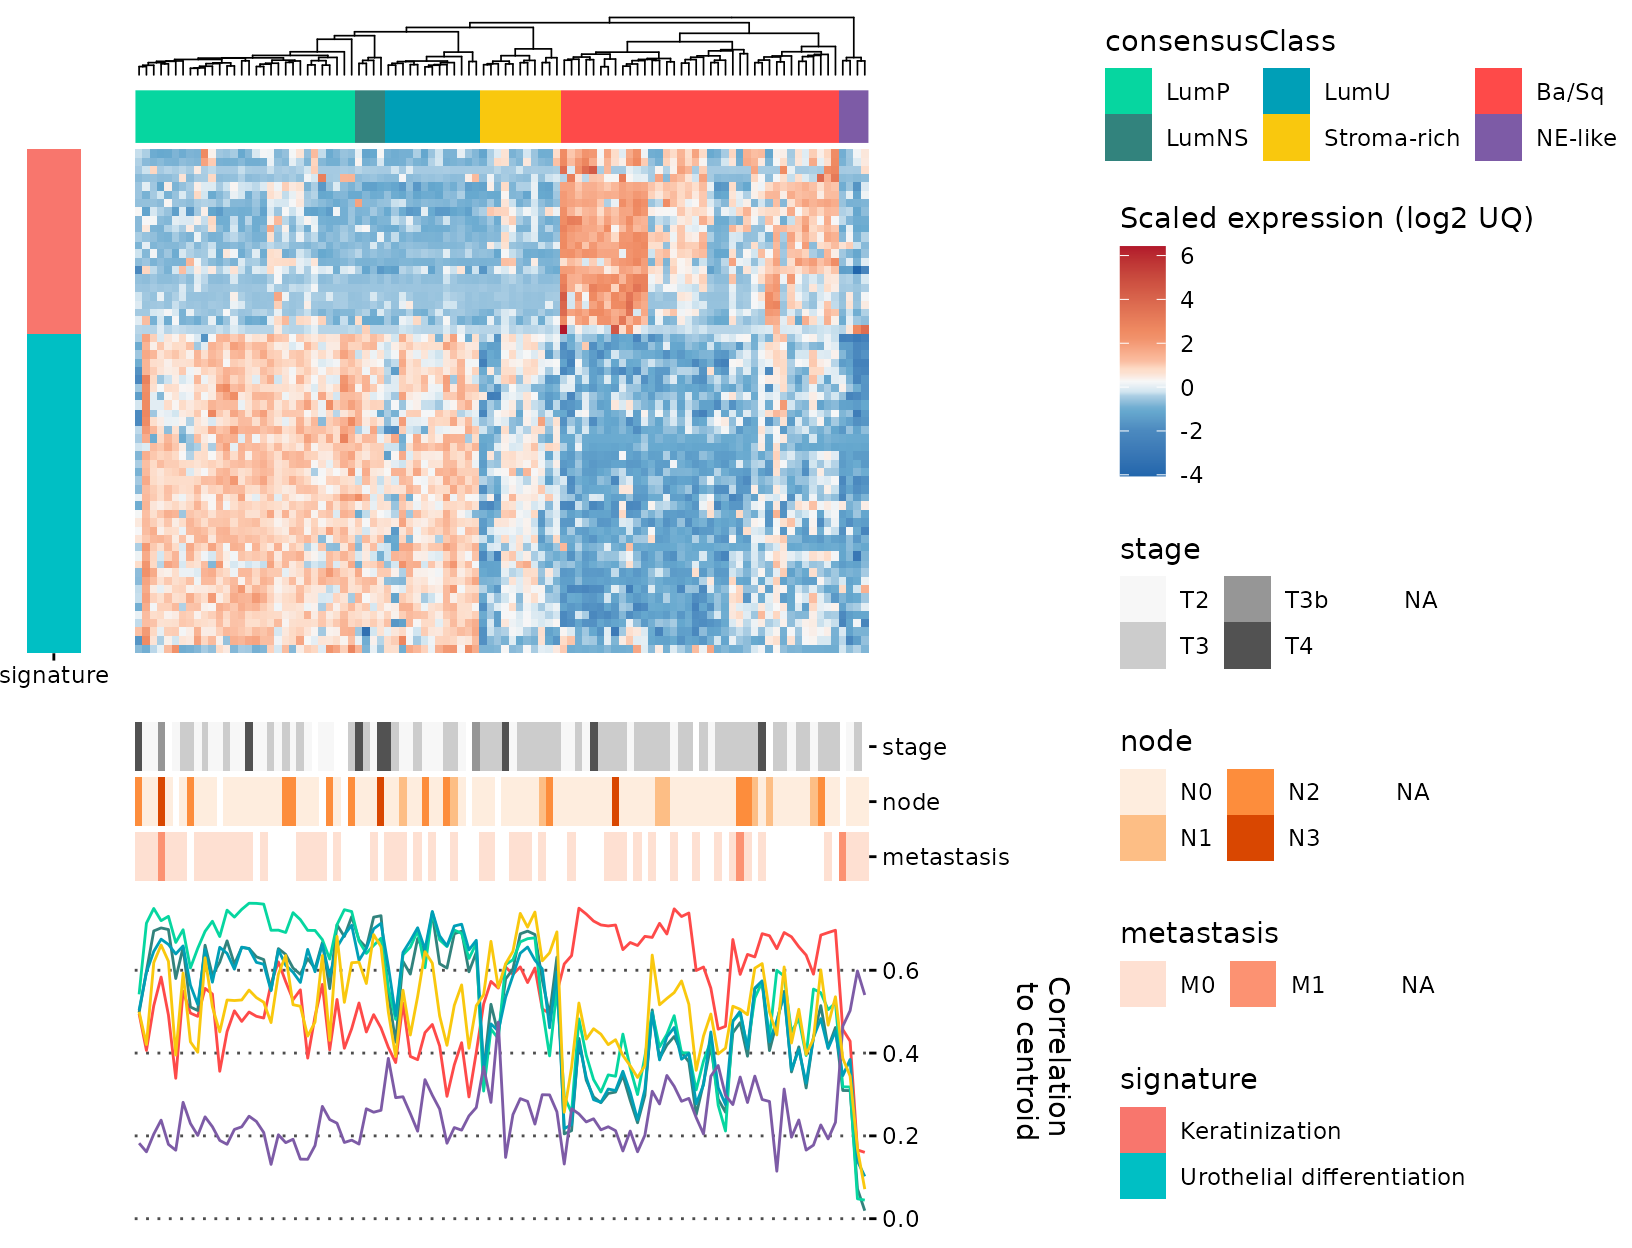
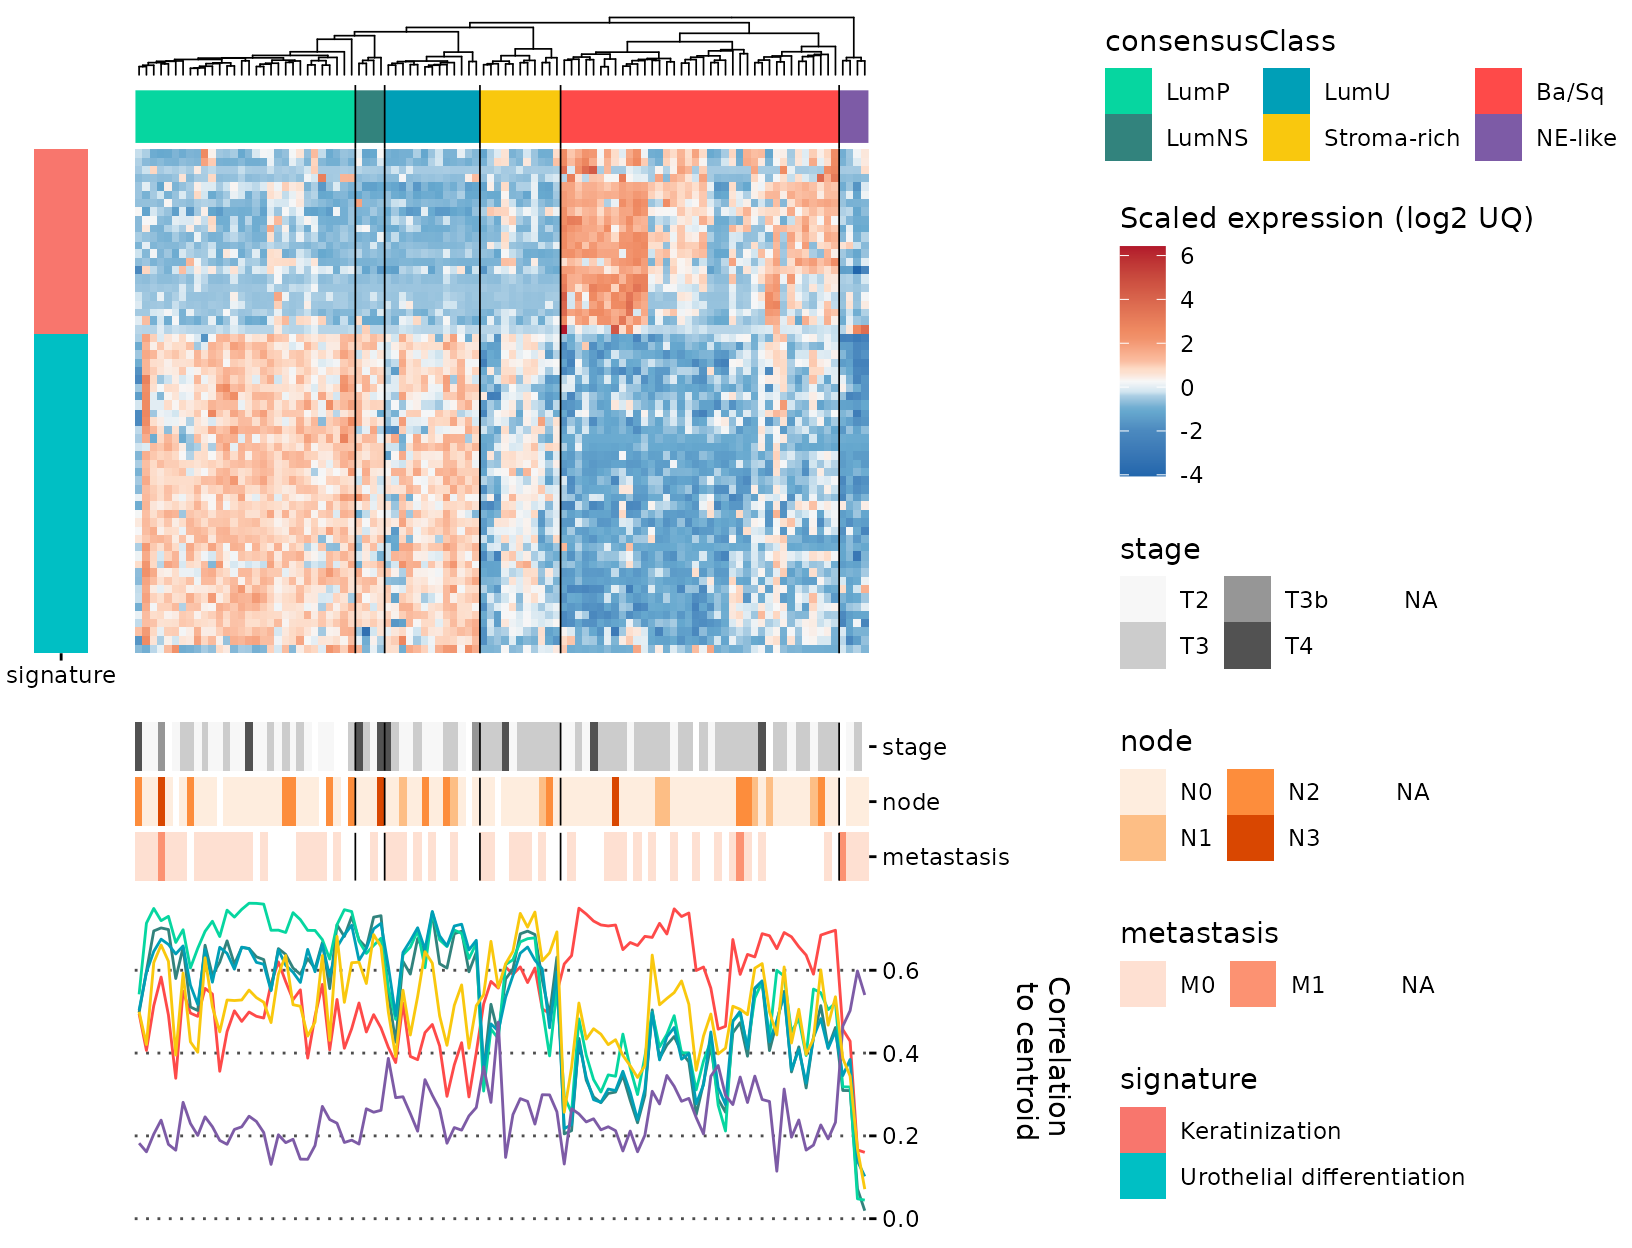
added group lines, general updates

Changed region(s): [[0.0, 0.125, 0.0625, 0.5625]]

diff --git a/docs/articles/ggheatmap.html b/docs/articles/ggheatmap.html
@@ -66,7 +66,7 @@
       <h1 data-toc-skip>ggheatmap: Tile-able heatmaps that play well with ggplots</h1>
                         <h4 class="author">Clarice S. Groeneveld</h4>
             
-            <h4 class="date">2021-04-26</h4>
+            <h4 class="date">2021-04-29</h4>
       
       
       <div class="hidden name"><code>ggheatmap.Rmd</code></div>
@@ -811,7 +811,7 @@
 <a href="#adding-tracks" class="anchor"></a>Adding tracks</h2>
 <p>You can <code>add_tracks</code> for variables that were in the original table fed to <code>ggheatmap</code>. You can see what variables are available using <code>gghmData</code>:</p>
 <div class="sourceCode" id="cb5"><pre class="downlit sourceCode r">
-<code class="sourceCode R"><span class="fu"><a href="../reference/gghmData.html">gghmData</a></span><span class="op">(</span><span class="va">gr_gghm</span><span class="op">)</span> <span class="op">%&gt;%</span> <span class="fu"><a href="https://rdrr.io/r/base/colnames.html">colnames</a></span><span class="op">(</span><span class="op">)</span>
+<code class="sourceCode R"><span class="fu"><a href="../reference/gghm_Data.html">gghmData</a></span><span class="op">(</span><span class="va">gr_gghm</span><span class="op">)</span> <span class="op">%&gt;%</span> <span class="fu"><a href="https://rdrr.io/r/base/colnames.html">colnames</a></span><span class="op">(</span><span class="op">)</span>
 <span class="co">#&gt;  [1] "observations"    "FBP1"            "ACER2"           "PKHD1"          </span>
 <span class="co">#&gt;  [5] "CAPN5"           "S100P"           "TMEM51"          "DHRS2"          </span>
 <span class="co">#&gt;  [9] "CYP4F22"         "SPINK1"          "ACSL5"           "ST3GAL5"        </span>
@@ -848,7 +848,7 @@
 <a href="#aligning-new-plots" class="anchor"></a>Aligning new plots</h2>
 <p>Here we’ll make two different plots: one to align with the samples (columns) and another to align with the genes (rows). We can get the data from gghmData, which is a good idea to facilitate further plotting because it will ensure your observations will be in the correct order. Then, here, we make a line-plot with the correlations of each sample to the centroid of the 6 consensus bladder cancer subtypes. Note the use of <code>theme_quant</code>, one of our suggested themes that look nice with <code>ggheatmap</code>s, and that we switch the y-axis to the right side to make the end-product look better (though everything will work without this):</p>
 <div class="sourceCode" id="cb7"><pre class="downlit sourceCode r">
-<code class="sourceCode R"><span class="va">tcgaBLCA_tb2</span> <span class="op">&lt;-</span> <span class="fu"><a href="../reference/gghmData.html">gghmData</a></span><span class="op">(</span><span class="va">gr_gghm</span><span class="op">)</span>
+<code class="sourceCode R"><span class="va">tcgaBLCA_tb2</span> <span class="op">&lt;-</span> <span class="fu"><a href="../reference/gghm_Data.html">gghmData</a></span><span class="op">(</span><span class="va">gr_gghm</span><span class="op">)</span>
 <span class="va">plt_corlines</span> <span class="op">&lt;-</span> <span class="va">tcgaBLCA_tb2</span> <span class="op">%&gt;%</span>
   <span class="fu">ungroup</span><span class="op">(</span><span class="op">)</span> <span class="op">%&gt;%</span>
   <span class="fu">select</span><span class="op">(</span><span class="va">observations</span>, <span class="va">LumP</span><span class="op">:</span><span class="va">NE.like</span><span class="op">)</span> <span class="op">%&gt;%</span>
@@ -866,7 +866,7 @@
 <p>The second plot should align to the rows. We can’t just use the <code>gghmData</code> because it doesn’t contain the information to order our rows, but we can get this from <code>gghm_rowLevels</code>. Here, we plot which signature each gene in our example data belongs to:</p>
 <div class="sourceCode" id="cb8"><pre class="downlit sourceCode r">
 <code class="sourceCode R"><span class="va">plt_row_annot</span> <span class="op">&lt;-</span> <span class="va">tcgaBLCA_ex</span><span class="op">$</span><span class="va">gene_annot</span> <span class="op">%&gt;%</span>
-  <span class="fu">mutate</span><span class="op">(</span>gene_symbol <span class="op">=</span> <span class="fu"><a href="https://rdrr.io/r/base/factor.html">factor</a></span><span class="op">(</span><span class="va">gene_symbol</span>, levels <span class="op">=</span> <span class="fu"><a href="../reference/gghmData.html">gghm_rowLevels</a></span><span class="op">(</span><span class="va">gr_gghm</span><span class="op">)</span><span class="op">)</span>,
+  <span class="fu">mutate</span><span class="op">(</span>gene_symbol <span class="op">=</span> <span class="fu"><a href="https://rdrr.io/r/base/factor.html">factor</a></span><span class="op">(</span><span class="va">gene_symbol</span>, levels <span class="op">=</span> <span class="fu"><a href="../reference/gghm_Data.html">gghm_rowLevels</a></span><span class="op">(</span><span class="va">gr_gghm</span><span class="op">)</span><span class="op">)</span>,
          group <span class="op">=</span> <span class="st">'signature'</span><span class="op">)</span> <span class="op">%&gt;%</span>
   <span class="fu">ggplot</span><span class="op">(</span><span class="fu">aes</span><span class="op">(</span><span class="va">gene_symbol</span>, <span class="va">group</span>, fill <span class="op">=</span> <span class="va">signature</span><span class="op">)</span><span class="op">)</span> <span class="op">+</span>
   <span class="fu">geom_tile</span><span class="op">(</span><span class="op">)</span> <span class="op">+</span>

diff --git a/docs/reference/gghm_Data.html b/docs/reference/gghm_Data.html
@@ -6,7 +6,7 @@
 <meta http-equiv="X-UA-Compatible" content="IE=edge">
 <meta name="viewport" content="width=device-width, initial-scale=1.0">
 
-<title>Align plot to ggheatmap — align_to_hm • ggheatmap</title>
+<title>Get data from ggheatmap — gghm_Data • ggheatmap</title>
 
 
 <!-- jquery -->
@@ -39,10 +39,9 @@
 
 
 
-<meta property="og:title" content="Align plot to ggheatmap — align_to_hm" />
-<meta property="og:description" content="Align a ggheatmap object to another ggplot that shares either its columns or
-rows to form complex panels. This function is called internally by add_tracks,
-and also exported by ggheatmap." />
+<meta property="og:title" content="Get data from ggheatmap — gghm_Data" />
+<meta property="og:description" content="These three functions help get data that may be useful for further plotting
+from the ggheatmap object." />
 
 
 
@@ -108,60 +107,40 @@ and also exported by ggheatmap." />
 <div class="row">
   <div class="col-md-9 contents">
     <div class="page-header">
-    <h1>Align plot to ggheatmap</h1>
+    <h1>Get data from ggheatmap</h1>
     
-    <div class="hidden name"><code>align_to_hm.Rd</code></div>
+    <div class="hidden name"><code>gghm_Data.Rd</code></div>
     </div>
 
     <div class="ref-description">
-    <p>Align a ggheatmap object to another ggplot that shares either its columns or
-rows to form complex panels. This function is called internally by add_tracks,
-and also exported by ggheatmap.</p>
+    <p>These three functions help get data that may be useful for further plotting
+from the ggheatmap object.</p>
     </div>
 
-    <pre class="usage"><span class='fu'>align_to_hm</span><span class='op'>(</span>
-  <span class='va'>gghm</span>,
-  <span class='va'>gplot</span>,
-  pos <span class='op'>=</span> <span class='st'>"bottom"</span>,
-  newplt_size_prop <span class='op'>=</span> <span class='fl'>0.5</span>,
-  legend_action <span class='op'>=</span> <span class='cn'>NULL</span>,
-  tag_level <span class='op'>=</span> <span class='st'>"new"</span>
-<span class='op'>)</span></pre>
+    <pre class="usage"><span class='fu'>gghm_Data</span><span class='op'>(</span><span class='va'>gghm</span><span class='op'>)</span>
+
+<span class='fu'>gghmData</span><span class='op'>(</span><span class='va'>gghm</span><span class='op'>)</span>
+
+<span class='fu'>gghm_rowLevels</span><span class='op'>(</span><span class='va'>gghm</span><span class='op'>)</span>
+
+<span class='fu'>gghm_colLevels</span><span class='op'>(</span><span class='va'>gghm</span><span class='op'>)</span></pre>
 
     <h2 class="hasAnchor" id="arguments"><a class="anchor" href="#arguments"></a>Arguments</h2>
     <table class="ref-arguments">
     <colgroup><col class="name" /><col class="desc" /></colgroup>
     <tr>
       <th>gghm</th>
-      <td><p>A object with class ggheatmap, generated by <code><a href='ggheatmap.html'>ggheatmap()</a></code>.</p></td>
-    </tr>
-    <tr>
-      <th>gplot</th>
-      <td><p>Another object of class ggplot, that shares either columns
-(if <code>pos='top'</code> or <code>pos='bottom'</code>) or rows (if <code>pos='left'</code>) with the heatmap.
-Note: to create the gplot, make sure you use <code><a href='gghm_Data.html'>gghmData()</a></code> to get the data, or
-alternatively <code><a href='gghm_Data.html'>gghm_rowLevels()</a></code> or <code><a href='gghm_Data.html'>gghm_colLevels()</a></code>.</p></td>
-    </tr>
-    <tr>
-      <th>pos</th>
-      <td><p>One of 'top', 'bottom' or 'left'.</p></td>
-    </tr>
-    <tr>
-      <th>newplt_size_prop</th>
-      <td><p>A float between 0 and 1, that indicates the proportion
-of the height (if <code>pos='top'</code> or <code>pos='bottom'</code>) or width (if <code>pos='left'</code>) that
-the new plot will occupy in the panel.</p></td>
-    </tr>
-    <tr>
-      <th>legend_action</th>
-      <td><p>A string specifying how guides should be treated in the layout.
-See: guides in <code><a href='https://patchwork.data-imaginist.com/reference/plot_layout.html'>patchwork::plot_layout()</a></code>.</p></td>
+      <td><p>An object of class <code>ggheatmap</code></p></td>
     </tr>
     </table>
 
-    <h2 class="hasAnchor" id="value"><a class="anchor" href="#value"></a>Value</h2>
+    <h2 class="hasAnchor" id="details"><a class="anchor" href="#details"></a>Details</h2>
 
-    <p>A joined panel object of class <code>ggheatmap</code>.</p>
+    <p><code>gghm_Data()</code> recovers the table with an ID column named <code>observations</code>, which
+if a factor that uses the same ordered levels as the heatmap. Those levels are
+also provided by calling <code>gghm_colLevels()</code>. For plots where you'd like to
+align the rows to the rows of the heatmap, <code>gghm_rowLevels()</code> provides the
+order of the rows in the heatmap.</p>
 
   </div>
   <div class="col-md-3 hidden-xs hidden-sm" id="pkgdown-sidebar">

diff --git a/docs/reference/gghm_getHMplot.html b/docs/reference/gghm_getHMplot.html
@@ -6,7 +6,7 @@
 <meta http-equiv="X-UA-Compatible" content="IE=edge">
 <meta name="viewport" content="width=device-width, initial-scale=1.0">
 
-<title>Align plot to ggheatmap — align_to_hm • ggheatmap</title>
+<title>Get and update heatmap from ggheatmap — gghm_getHMplot • ggheatmap</title>
 
 
 <!-- jquery -->
@@ -39,10 +39,8 @@
 
 
 
-<meta property="og:title" content="Align plot to ggheatmap — align_to_hm" />
-<meta property="og:description" content="Align a ggheatmap object to another ggplot that shares either its columns or
-rows to form complex panels. This function is called internally by add_tracks,
-and also exported by ggheatmap." />
+<meta property="og:title" content="Get and update heatmap from ggheatmap — gghm_getHMplot" />
+<meta property="og:description" content="Functions to get and modify heatmap data" />
 
 
 
@@ -108,60 +106,39 @@ and also exported by ggheatmap." />
 <div class="row">
   <div class="col-md-9 contents">
     <div class="page-header">
-    <h1>Align plot to ggheatmap</h1>
+    <h1>Get and update heatmap from ggheatmap</h1>
     
-    <div class="hidden name"><code>align_to_hm.Rd</code></div>
+    <div class="hidden name"><code>gghm_getHMplot.Rd</code></div>
     </div>
 
     <div class="ref-description">
-    <p>Align a ggheatmap object to another ggplot that shares either its columns or
-rows to form complex panels. This function is called internally by add_tracks,
-and also exported by ggheatmap.</p>
+    <p>Functions to get and modify heatmap data</p>
     </div>
 
-    <pre class="usage"><span class='fu'>align_to_hm</span><span class='op'>(</span>
-  <span class='va'>gghm</span>,
-  <span class='va'>gplot</span>,
-  pos <span class='op'>=</span> <span class='st'>"bottom"</span>,
-  newplt_size_prop <span class='op'>=</span> <span class='fl'>0.5</span>,
-  legend_action <span class='op'>=</span> <span class='cn'>NULL</span>,
-  tag_level <span class='op'>=</span> <span class='st'>"new"</span>
-<span class='op'>)</span></pre>
+    <pre class="usage"><span class='fu'>gghm_getHMplot</span><span class='op'>(</span><span class='va'>gghm</span><span class='op'>)</span>
+
+<span class='fu'>gghm_updateHMplot</span><span class='op'>(</span><span class='va'>gghm</span>, <span class='va'>new_hm</span><span class='op'>)</span></pre>
 
     <h2 class="hasAnchor" id="arguments"><a class="anchor" href="#arguments"></a>Arguments</h2>
     <table class="ref-arguments">
     <colgroup><col class="name" /><col class="desc" /></colgroup>
     <tr>
       <th>gghm</th>
-      <td><p>A object with class ggheatmap, generated by <code><a href='ggheatmap.html'>ggheatmap()</a></code>.</p></td>
+      <td><p>an object of class ggheatmap</p></td>
     </tr>
     <tr>
-      <th>gplot</th>
-      <td><p>Another object of class ggplot, that shares either columns
-(if <code>pos='top'</code> or <code>pos='bottom'</code>) or rows (if <code>pos='left'</code>) with the heatmap.
-Note: to create the gplot, make sure you use <code><a href='gghm_Data.html'>gghmData()</a></code> to get the data, or
-alternatively <code><a href='gghm_Data.html'>gghm_rowLevels()</a></code> or <code><a href='gghm_Data.html'>gghm_colLevels()</a></code>.</p></td>
-    </tr>
-    <tr>
-      <th>pos</th>
-      <td><p>One of 'top', 'bottom' or 'left'.</p></td>
-    </tr>
-    <tr>
-      <th>newplt_size_prop</th>
-      <td><p>A float between 0 and 1, that indicates the proportion
-of the height (if <code>pos='top'</code> or <code>pos='bottom'</code>) or width (if <code>pos='left'</code>) that
-the new plot will occupy in the panel.</p></td>
-    </tr>
-    <tr>
-      <th>legend_action</th>
-      <td><p>A string specifying how guides should be treated in the layout.
-See: guides in <code><a href='https://patchwork.data-imaginist.com/reference/plot_layout.html'>patchwork::plot_layout()</a></code>.</p></td>
+      <th>new_hm</th>
+      <td><p>an object of class ggplot, which corresponds to the heatmap
+portion of the ggheatmap to overwrite the current heatmap portion.</p></td>
     </tr>
     </table>
 
-    <h2 class="hasAnchor" id="value"><a class="anchor" href="#value"></a>Value</h2>
+    <h2 class="hasAnchor" id="details"><a class="anchor" href="#details"></a>Details</h2>
 
-    <p>A joined panel object of class <code>ggheatmap</code>.</p>
+    <p>Allows the user to update graphical parameters of the heatmap by adding onto
+it with ggplot syntax as they like. You first perform a <code>new_hm &lt;- get_gghm(gghm)</code>
+to get the object, which can then be modified and re-written by setting
+<code>gghm &lt;- update_gghm(gghm, new_hm)</code></p>
 
   </div>
   <div class="col-md-3 hidden-xs hidden-sm" id="pkgdown-sidebar">

diff --git a/docs/reference/ggheatmap.html b/docs/reference/ggheatmap.html
@@ -139,7 +139,7 @@ constructing panels.</p>
   fontsize <span class='op'>=</span> <span class='fl'>11</span>,
   show_rownames <span class='op'>=</span> <span class='cn'>TRUE</span>,
   show_colnames <span class='op'>=</span> <span class='cn'>TRUE</span>,
-  show_dend_row <span class='op'>=</span> <span class='cn'>FALSE</span>,
+  show_dend_row <span class='op'>=</span> <span class='cn'>TRUE</span>,
   show_dend_col <span class='op'>=</span> <span class='cn'>TRUE</span>,
   dend_lwd <span class='op'>=</span> <span class='fl'>0.3</span>,
   dend_prop_row <span class='op'>=</span> <span class='fl'>0.1</span>,
@@ -147,6 +147,10 @@ constructing panels.</p>
   group_track <span class='op'>=</span> <span class='cn'>TRUE</span>,
   group_prop <span class='op'>=</span> <span class='fl'>0.1</span>,
   group_colors <span class='op'>=</span> <span class='cn'>NULL</span>,
+  group_lines <span class='op'>=</span> <span class='cn'>FALSE</span>,
+  group_line_color <span class='op'>=</span> <span class='st'>"black"</span>,
+  group_lty <span class='op'>=</span> <span class='st'>"solid"</span>,
+  group_lwd <span class='op'>=</span> <span class='fl'>0.3</span>,
   group_leg_ncol <span class='op'>=</span> <span class='fl'>3</span>
 <span class='op'>)</span></pre>
 

diff --git a/docs/reference/index.html b/docs/reference/index.html
@@ -149,9 +149,15 @@
       </tr><tr>
         
         <td>
-          <p><code><a href="gghmData.html">gghmData()</a></code> <code><a href="gghmData.html">gghm_rowLevels()</a></code> <code><a href="gghmData.html">gghm_colLevels()</a></code> </p>
+          <p><code><a href="gghm_Data.html">gghm_Data()</a></code> <code><a href="gghm_Data.html">gghmData()</a></code> <code><a href="gghm_Data.html">gghm_rowLevels()</a></code> <code><a href="gghm_Data.html">gghm_colLevels()</a></code> </p>
         </td>
         <td><p>Get data from ggheatmap</p></td>
+      </tr><tr>
+        
+        <td>
+          <p><code><a href="gghm_getHMplot.html">gghm_getHMplot()</a></code> <code><a href="gghm_getHMplot.html">gghm_updateHMplot()</a></code> </p>
+        </td>
+        <td><p>Get and update heatmap from ggheatmap</p></td>
       </tr><tr>
         
         <td>
